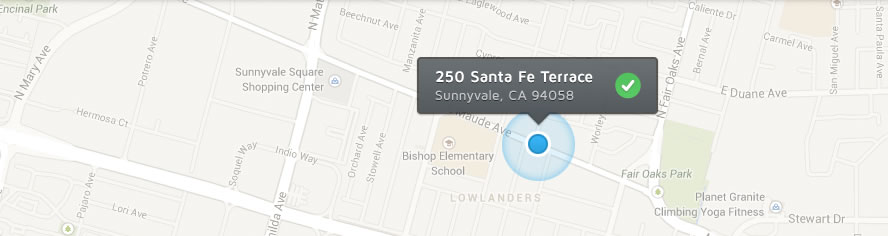
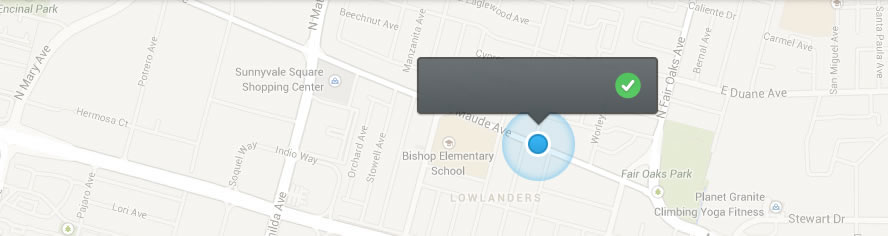
Replacing images...

Changed region(s): [[0.4865, 0.2966, 0.6689, 0.3559], [0.4865, 0.3856, 0.6689, 0.4449]]

diff --git a/css/main.css b/css/main.css
@@ -562,8 +562,63 @@ code {
   height: 246px;
 }
 
-.pricing .right {
+.pricing_calculator {
+  height: 100%;
+  position: relative;
+}
 
+.pricing_calculator strong {
+  color: #777A7E;
+  font-family: "MavenPro-Semibold";
+  left: 10px;
+  position: absolute;
+  text-align: center;
+  top: 50px;
+  width: 141px;
+}
+
+.pricing_calculator .price {
+  color: #319AE7;
+  font-family: "MavenPro-Bold";
+  font-size: 42px;
+  height: 68px;
+  left: 10px;
+  padding: 15px 0 0;
+  position: absolute;
+  top: 101px;
+  text-align: center;
+  text-shadow: -1px -1px 1px rgba(0,0,0,0.1);
+  width: 143px;
+}
+
+.pricing_calculator .price small {
+  font-size: 20px;
+  vertical-align:top;
+}
+
+.pricing_calculator .price span {
+  color: #A0A2A4;
+  display: block;
+  font-family: "MavenPro-Regular";
+  font-size: 12px;
+  margin-top: 3px;
+}
+
+.pricing_calculator .meter {
+  background: #333 url('../images/pricing_tooltip.png');
+  bottom: 47px;
+  color: #fff;
+  display: block;
+  font-family: "MavenPro-Bold";
+  font-size: 18px;
+  height: 45px;
+  line-height: 45px;
+  padding-left: 8px;
+  position: absolute;
+  right: 90px;
+  text-align: center;
+  text-shadow: 1px 1px 1px rgba(0,0,0,0.5);
+  width: 74px;
 }
 
 .pricing .left {
@@ -993,6 +1048,31 @@ footer ul li a:hover {
 }
 
 .team div p:last-child {margin: 0;}
+
+.about_map {
+  position: relative;
+}
+
+.about_map .tooltip {
+  color: #BDC0C1;
+  font-family: 'MavenPro-Semibold';
+  font-size: 14px;
+  height: 28px;
+  left: 417px;
+  line-height: 1.2;
+  padding: 15px;
+  position: absolute;
+  text-shadow: 1px 1px rgba(0,0,0,0.4);
+  top: 52px;
+  width: 211px;
+}
+
+.about_map .tooltip strong {
+  color: #fff;
+  display: block;
+  font-family: "MavenPro-Bold";
+  font-size: 16px;
+}
 
 .icon {
   background: url('../images/sidebar_icons.png') 0 0;

diff --git a/index.html b/index.html
@@ -105,8 +105,17 @@ $ curl https://api.lob.com/v1/verify \ <br>
 	</div>
 	<div class="light">
 		<section class="clearfix pricing">
-			<div class="left">
+			<div class="left pricing_calculator">
+				<strong>Black &amp; White Documents</strong>
 
+				<span class="price">
+					<small>$</small>0.45
+					<span>To print</span>
+				</span>
+
+				<span class="meter">
+					1 unit
+				</span>
 			</div>
 
 			<div class="right">

diff --git a/about.html b/about.html
@@ -74,6 +74,10 @@
         </div><!-- /.medium -->
 
         <div class="about_map">
+          <div class="tooltip">
+            <strong>250 Santa Fe Terrace</strong>
+            Sunnyvale, CA 94058
+          </div>
           <img src="images/map.jpg" alt="" style="display: block" />
         </div><!-- /.medium -->
 
